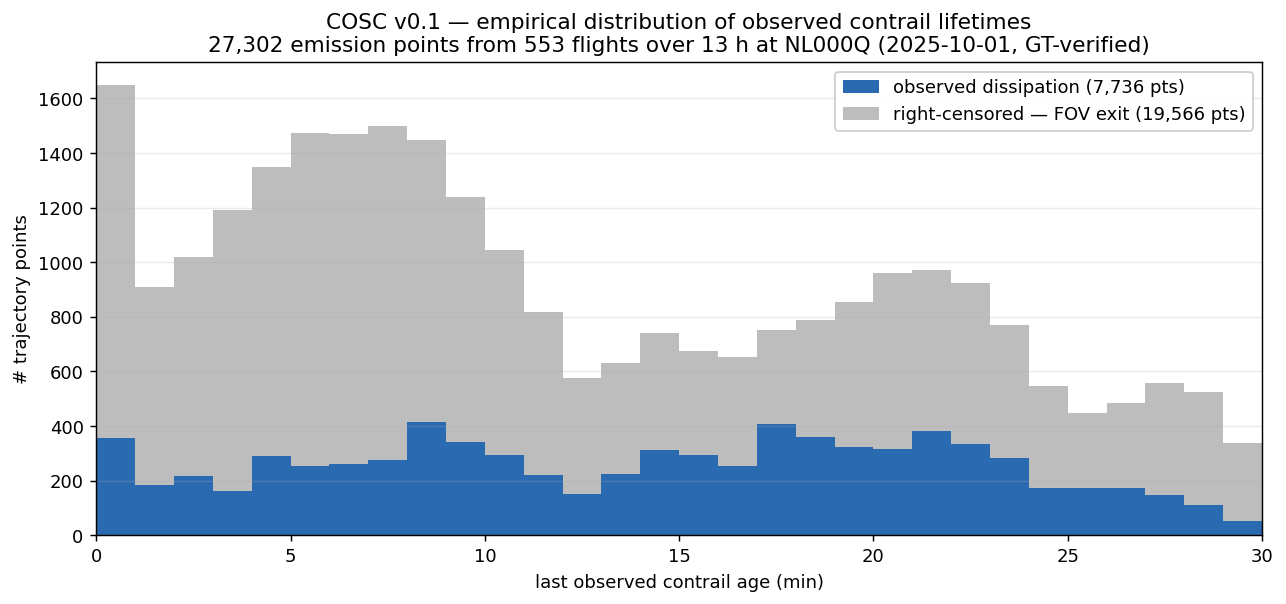
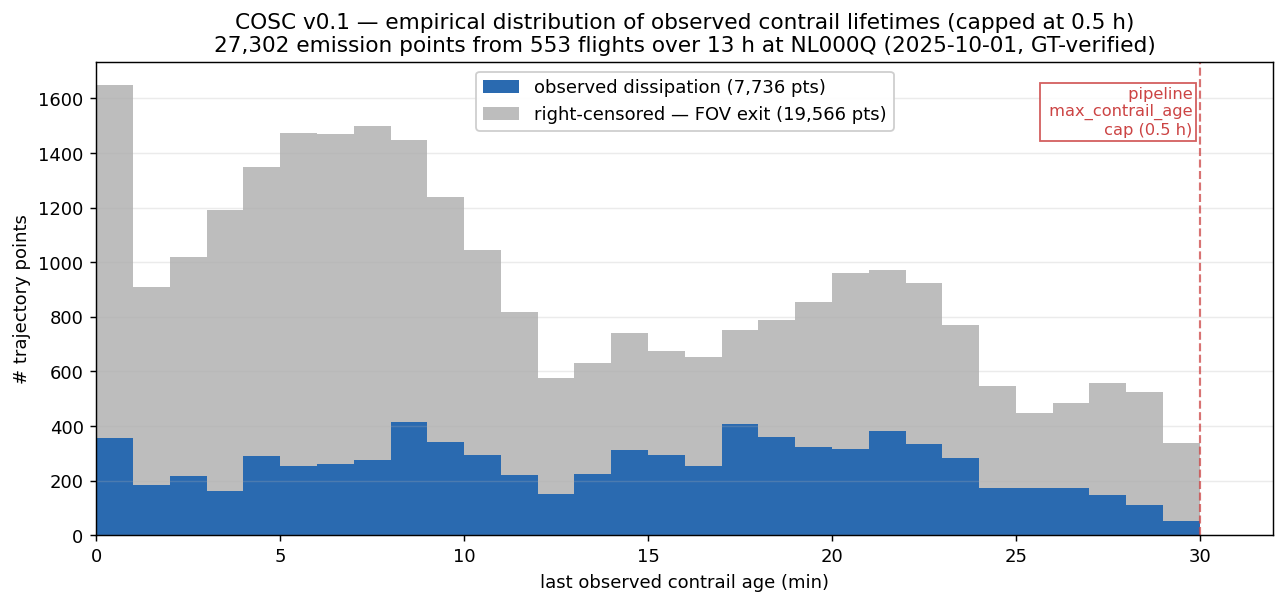
Make the 30-min max_contrail_age cap explicit
The histogram's right edge isn't the observed maximum — it's the
Janus pipeline's max_contrail_age=0.5h default. Natural contrail
lifetimes commonly run 1-4 h, so the dataset underrepresents the
tail. Flag this prominently:

- Histogram: annotate the cap with a red dashed line + label;
  retitle to '(capped at 0.5 h)'.
- README caption: callout block describing the cap + v0.2 plan.
- DATASET_CARD known-limitations: lead with this; note that the
  trace generator already supports 3 h horizons but a longer-horizon
  regeneration is gated on refreshing the GT review at that horizon.

diff --git a/README.md b/README.md
@@ -13,11 +13,16 @@ against detected-from-the-ground reality.
 27,302 emission points over a single 13 h sky-camera video, this is
 how long each contrail remained detectable. Right-censored points
 (grey) are ones where the contrail drifted out of FOV before
-dissipating — its true lifetime is at least the value shown.
-Censoring is per-row metadata in the dataset, so any survival-
-analysis-aware comparison handles it correctly. Pipeline output is
-capped at 30 min contrail age; the rightmost bin reflects the cap,
-not the natural maximum.*
+dissipating — its true lifetime is at least the value shown;
+censoring is per-row metadata in the dataset so any
+survival-analysis-aware comparison handles it correctly.*
+
+> ⚠️ **The 30 min cap is the Janus pipeline's `max_contrail_age`
+> default (0.5 h), not the natural maximum.** Natural contrail
+> lifetimes commonly run 1-4 h; the v0.1-preview dataset doesn't
+> see that tail. v0.2 will regenerate with a longer horizon
+> (3 h is already supported by the trace generator) once the GT
+> review has been refreshed at the new horizon.
 
 ![KLM1285 GT-verified attribution overlay — NL000Q frame 5437](docs/img/attribution_overlay_klm1285.png)
 

diff --git a/specs/DATASET_CARD.md b/specs/DATASET_CARD.md
@@ -239,6 +239,15 @@ motivated geometric reverse-engineering.
 
 ## Known limitations
 
+- **Contrail age capped at the Janus pipeline's `max_contrail_age`**
+  (default 0.5 h ≈ 30 min). Attributions and `detect_last_age_s`
+  cannot exceed this cap. Natural contrail lifetimes commonly run
+  1-4 h, so v0.1 systematically underrepresents the upper tail.
+  Treat `detect_last_age_s ≥ max_age - frame_step_s` as a third class
+  of right-censoring (the dataset doesn't currently encode it as a
+  dedicated boolean; v0.2 will). The trace generator supports 3 h
+  horizons; the regeneration is gated on refreshing the GT review
+  at the new horizon.
 - **Single-station, single-video** in v0.1. Cross-station generalisation
   pending v0.2.
 - **YOLO detector** is the source of all `mask_polygons/`. Detector misses